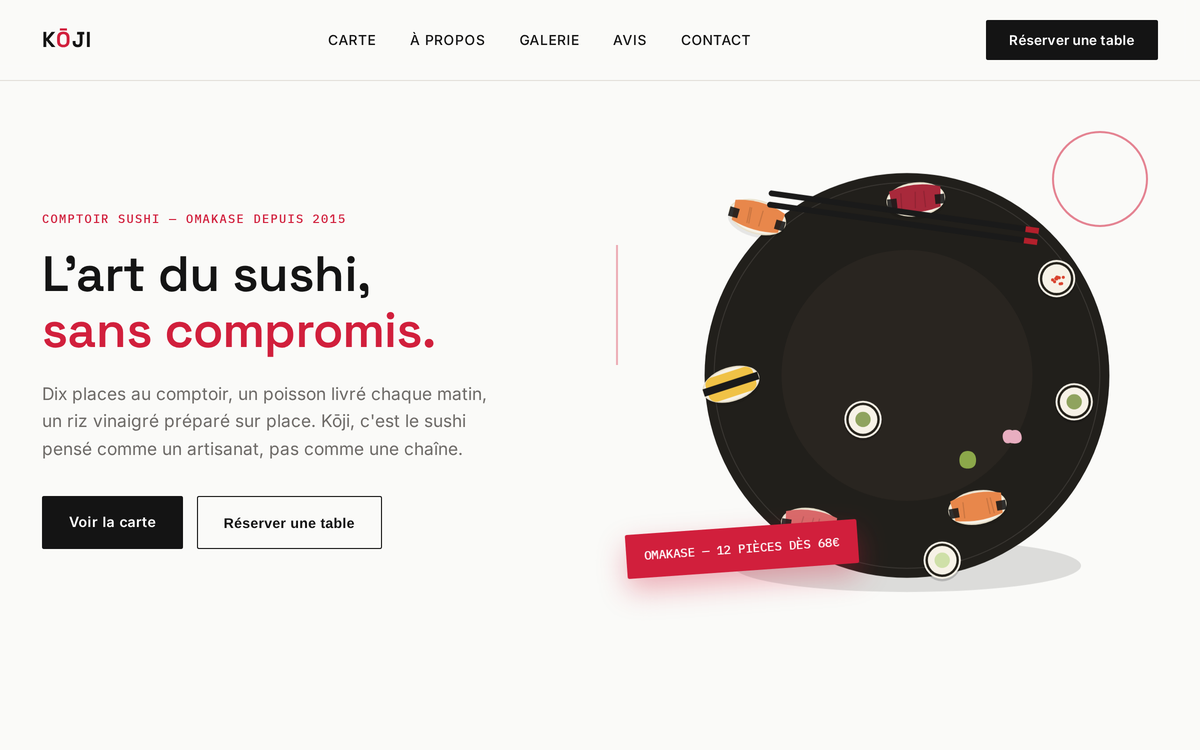
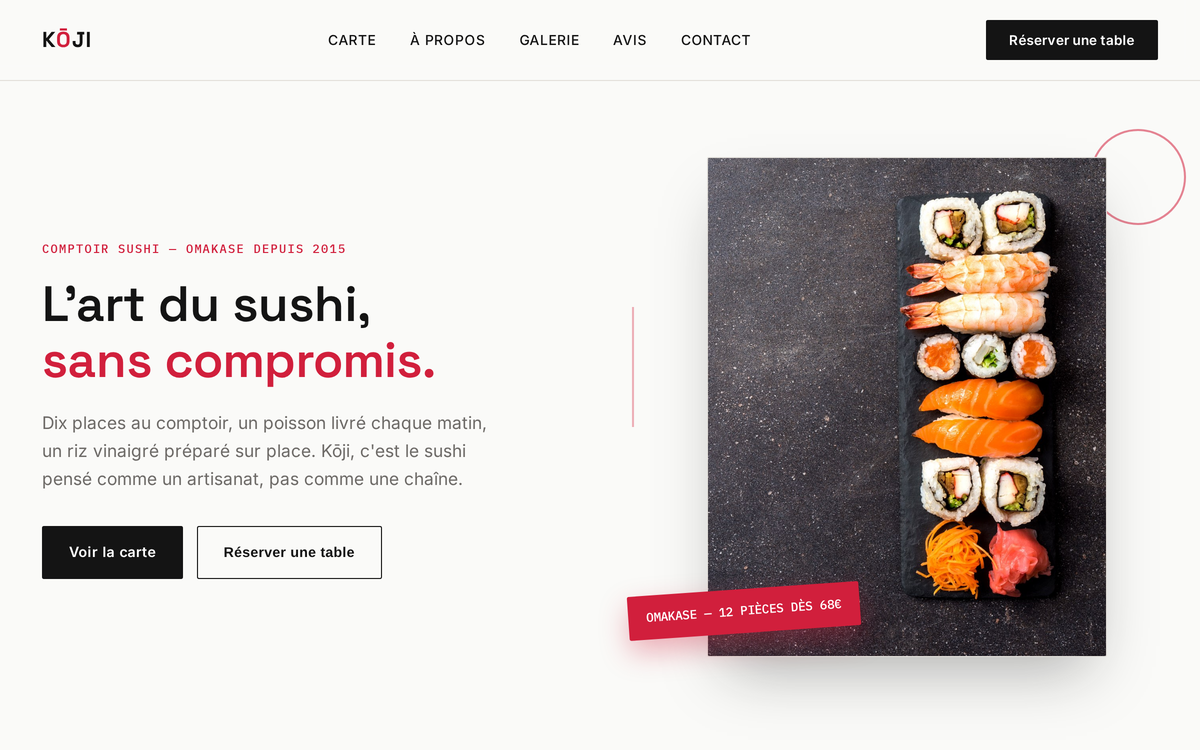
Refonte photo Kōji avec Adobe Stock

Changed region(s): [[0.4933, 0.1533, 0.9558, 0.92], [0.0308, 0.276, 0.4008, 0.7973]]

diff --git a/exemple-koji.html b/exemple-koji.html
@@ -93,20 +93,22 @@
   .lead{font-size:1.08rem; color:var(--muted); max-width:460px; margin-bottom:34px;}
   .hero-actions{display:flex; gap:14px; flex-wrap:wrap;}
   .hero-visual{position:relative; display:flex; justify-content:center; align-items:center;}
-  .sushi-wrap{position:relative; width:100%; max-width:440px; animation:floaty 5s ease-in-out infinite;}
-  .sushi-wrap svg{width:100%; height:auto; display:block;}
-  @keyframes floaty{0%,100%{transform:translateY(0);} 50%{transform:translateY(-14px);}}
+  .photo-frame{position:relative; width:100%; max-width:400px;}
+  .photo-frame img{
+    width:100%; height:auto; display:block; border-radius:var(--radius); border:1px solid var(--line);
+    box-shadow:0 30px 60px -20px rgba(20,20,20,.35);
+  }
   .price-tag-float{
-    position:absolute; bottom:6%; left:-6%; background:var(--red); color:#fff; padding:12px 18px;
+    position:absolute; bottom:24px; left:-28px; background:var(--red); color:#fff; padding:12px 18px;
     border-radius:var(--radius); font-family:'IBM Plex Mono',monospace; font-size:.78rem; letter-spacing:.02em;
     box-shadow:0 12px 28px rgba(209,31,60,.35); transform:rotate(-4deg);
   }
   .deco-ring{
-    position:absolute; top:-6%; right:2%; width:96px; height:96px; border:2px solid var(--red);
-    border-radius:50%; opacity:.55;
+    position:absolute; top:-28px; right:-28px; width:96px; height:96px; border:2px solid var(--red);
+    border-radius:50%; opacity:.55; z-index:-1;
   }
   .deco-line{
-    position:absolute; left:-8%; top:20%; width:2px; height:120px; background:var(--red); opacity:.35;
+    position:absolute; left:-24px; top:30%; width:2px; height:120px; background:var(--red); opacity:.35;
   }
 
   /* highlights */
@@ -134,10 +136,8 @@
 
   /* about */
   .about-grid{display:grid; grid-template-columns:.85fr 1.15fr; gap:64px; align-items:center;}
-  .about-visual{
-    background:var(--ink); border-radius:var(--radius); padding:34px; display:flex;
-    justify-content:center; align-items:center;
-  }
+  .about-visual{border-radius:var(--radius); overflow:hidden; border:1px solid var(--line);}
+  .about-visual img{width:100%; display:block; aspect-ratio:1/1; object-fit:cover;}
   .about-text p{color:var(--muted); margin-bottom:16px; max-width:520px;}
   .stats-row{display:flex; gap:40px; margin-top:32px; flex-wrap:wrap;}
   .stat .num{font-family:'Space Grotesk',sans-serif; font-size:2.1rem; font-weight:700; color:var(--red);}
@@ -165,17 +165,22 @@
   /* gallery */
   .gallery-grid{display:grid; grid-template-columns:repeat(3,1fr); gap:2px;}
   .gallery-tile{
-    aspect-ratio:4/3; display:flex; flex-direction:column; align-items:center; justify-content:center;
-    gap:14px; color:#fff; position:relative;
+    aspect-ratio:4/3; display:flex; align-items:flex-end; justify-content:flex-start;
+    color:#fff; position:relative; overflow:hidden;
   }
-  .gallery-tile span{font-family:'IBM Plex Mono',monospace; font-size:.8rem; letter-spacing:.04em; text-transform:uppercase;}
-  .g-icon{width:38px; height:38px; stroke:#fff; fill:none; stroke-width:1.4; opacity:.92;}
-  .g1{background:linear-gradient(135deg,#141414,#2B2B2B);}
-  .g2{background:linear-gradient(135deg,#93122A,#D11F3C);}
-  .g3{background:linear-gradient(135deg,#2B2B2B,#141414);}
-  .g4{background:linear-gradient(135deg,#D11F3C,#93122A);}
-  .g5{background:linear-gradient(135deg,#1A1A1A,#3A3733);}
-  .g6{background:linear-gradient(135deg,#3A3733,#141414);}
+  .gallery-tile img{
+    position:absolute; inset:0; width:100%; height:100%; object-fit:cover;
+    transition:transform .5s ease;
+  }
+  .gallery-tile:hover img{transform:scale(1.05);}
+  .gallery-tile::after{
+    content:""; position:absolute; inset:0;
+    background:linear-gradient(to top, rgba(10,10,10,.72) 0%, rgba(10,10,10,0) 55%);
+  }
+  .gallery-tile span{
+    position:relative; z-index:1; padding:16px;
+    font-family:'IBM Plex Mono',monospace; font-size:.8rem; letter-spacing:.04em; text-transform:uppercase;
+  }
 
   /* testimonials */
   .testi-grid{display:grid; grid-template-columns:repeat(3,1fr); gap:2px; background:var(--line);}
@@ -230,9 +235,10 @@
     .testi-grid{grid-template-columns:1fr;}
     section{padding:72px 0;}
     .hero h1{font-size:2.3rem;}
-    .hero-visual{overflow:hidden; padding:0 6px;}
-    .price-tag-float{left:6%; bottom:2%; font-size:.68rem; padding:9px 14px;}
-    .deco-ring{width:60px; height:60px; top:-2%; right:4%;}
+    .hero-visual{padding:0 6px;}
+    .photo-frame{max-width:320px; margin:0 auto;}
+    .price-tag-float{left:0; bottom:14px; font-size:.62rem; padding:8px 12px;}
+    .deco-ring{width:56px; height:56px; top:-16px; right:-16px;}
     .deco-line{display:none;}
   }
   @media(max-width:520px){
@@ -291,25 +297,8 @@
     <div class="hero-visual reveal in">
       <div class="deco-ring"></div>
       <div class="deco-line"></div>
-      <div class="sushi-wrap">
-        <svg viewBox="0 0 460 460" width="460" height="460" xmlns="http://www.w3.org/2000/svg">
-<ellipse cx="230.0" cy="428.904" rx="181.976" ry="27.508" fill="#000" opacity="0.12"/>
-<circle cx="230.0" cy="230.0" r="211.6" fill="#211F1B"/>
-<circle cx="230.0" cy="230.0" r="201.6" fill="none" stroke="#3A3733" stroke-width="1"/>
-<circle cx="230.0" cy="230.0" r="131.192" fill="#292520"/>
-<g transform="translate(73.6 64.4) rotate(16)"><ellipse cx="0" cy="6" rx="30" ry="15" fill="#000" opacity="0.08"/><ellipse cx="0" cy="0" rx="30" ry="17" fill="#F7F2E7" stroke="#E9E1CC" stroke-width="1.5"/><path d="M-27,-11 Q0,-20 27,-11 L25,10 Q0,17 -25,10 Z" fill="#E8874B"/><line x1="-10.1" y1="-8" x2="-8.9" y2="9" stroke="#00000022" stroke-width="1.2"/><line x1="4.0" y1="-8" x2="3.9" y2="9" stroke="#00000022" stroke-width="1.2"/><line x1="-8.5" y1="-8" x2="-6.8" y2="9" stroke="#00000022" stroke-width="1.2"/><rect x="-30" y="-3" width="10" height="10" fill="#1A1A1A" opacity="0.9"/><rect x="20" y="-3" width="10" height="10" fill="#1A1A1A" opacity="0.9"/></g>
-<g transform="translate(239.2 46.0) rotate(-6)"><ellipse cx="0" cy="6" rx="30" ry="15" fill="#000" opacity="0.08"/><ellipse cx="0" cy="0" rx="30" ry="17" fill="#F7F2E7" stroke="#E9E1CC" stroke-width="1.5"/><path d="M-27,-11 Q0,-20 27,-11 L25,10 Q0,17 -25,10 Z" fill="#A8293B"/><line x1="9.2" y1="-8" x2="9.3" y2="9" stroke="#00000022" stroke-width="1.2"/><line x1="0.2" y1="-8" x2="-1.4" y2="9" stroke="#00000022" stroke-width="1.2"/><line x1="-14.9" y1="-8" x2="-15.7" y2="9" stroke="#00000022" stroke-width="1.2"/><rect x="-30" y="-3" width="10" height="10" fill="#1A1A1A" opacity="0.9"/><rect x="20" y="-3" width="10" height="10" fill="#1A1A1A" opacity="0.9"/></g>
-<g transform="translate(46.0 239.2) rotate(-18)"><ellipse cx="0" cy="6" rx="30" ry="15" fill="#000" opacity="0.08"/><ellipse cx="0" cy="0" rx="30" ry="17" fill="#F7F2E7" stroke="#E9E1CC" stroke-width="1.5"/><rect x="-26" y="-13" width="52" height="26" rx="8" fill="#F0C246"/><rect x="-30" y="-4" width="60" height="8" fill="#1A1A1A"/></g>
-<g transform="translate(128.8 386.4) rotate(8)"><ellipse cx="0" cy="6" rx="30" ry="15" fill="#000" opacity="0.08"/><ellipse cx="0" cy="0" rx="30" ry="17" fill="#F7F2E7" stroke="#E9E1CC" stroke-width="1.5"/><path d="M-27,-11 Q0,-20 27,-11 L25,10 Q0,17 -25,10 Z" fill="#D96B6B"/><line x1="2.6" y1="-8" x2="-0.0" y2="9" stroke="#00000022" stroke-width="1.2"/><line x1="8.8" y1="-8" x2="7.2" y2="9" stroke="#00000022" stroke-width="1.2"/><line x1="-8.0" y1="-8" x2="-10.8" y2="9" stroke="#00000022" stroke-width="1.2"/><rect x="-30" y="-3" width="10" height="10" fill="#1A1A1A" opacity="0.9"/><rect x="20" y="-3" width="10" height="10" fill="#1A1A1A" opacity="0.9"/></g>
-<g transform="translate(303.6 368.0) rotate(-10)"><ellipse cx="0" cy="6" rx="30" ry="15" fill="#000" opacity="0.08"/><ellipse cx="0" cy="0" rx="30" ry="17" fill="#F7F2E7" stroke="#E9E1CC" stroke-width="1.5"/><path d="M-27,-11 Q0,-20 27,-11 L25,10 Q0,17 -25,10 Z" fill="#E8874B"/><line x1="14.9" y1="-8" x2="16.4" y2="9" stroke="#00000022" stroke-width="1.2"/><line x1="11.3" y1="-8" x2="11.9" y2="9" stroke="#00000022" stroke-width="1.2"/><line x1="-14.0" y1="-8" x2="-15.0" y2="9" stroke="#00000022" stroke-width="1.2"/><rect x="-30" y="-3" width="10" height="10" fill="#1A1A1A" opacity="0.9"/><rect x="20" y="-3" width="10" height="10" fill="#1A1A1A" opacity="0.9"/></g>
-<g transform="translate(404.8 257.6)"><circle cx="0" cy="2" r="20" fill="#000" opacity="0.18"/><circle cx="0" cy="0" r="19.5" fill="#F7F2E7"/><circle cx="0" cy="0" r="17.5" fill="#232019"/><circle cx="0" cy="0" r="15" fill="#F7F2E7"/><circle cx="0" cy="0" r="8" fill="#8FA35E"/></g>
-<g transform="translate(386.4 128.8)"><circle cx="0" cy="2" r="20" fill="#000" opacity="0.18"/><circle cx="0" cy="0" r="19.5" fill="#F7F2E7"/><circle cx="0" cy="0" r="17.5" fill="#232019"/><circle cx="0" cy="0" r="15" fill="#F7F2E7"/><circle cx="-0.9" cy="0.0" r="1.6" fill="#D9432E"/><circle cx="2.8" cy="-0.9" r="1.6" fill="#D9432E"/><circle cx="3.7" cy="5.4" r="1.6" fill="#D9432E"/><circle cx="5.3" cy="5.2" r="1.6" fill="#D9432E"/><circle cx="-4.2" cy="1.3" r="1.6" fill="#D9432E"/><circle cx="-2.1" cy="3.2" r="1.6" fill="#D9432E"/><circle cx="0.1" cy="0.3" r="1.6" fill="#D9432E"/><circle cx="1.3" cy="-1.4" r="1.6" fill="#D9432E"/><circle cx="0.3" cy="-1.6" r="1.6" fill="#D9432E"/><circle cx="7.0" cy="-1.4" r="1.6" fill="#D9432E"/></g>
-<g transform="translate(266.8 423.2)"><circle cx="0" cy="2" r="20" fill="#000" opacity="0.18"/><circle cx="0" cy="0" r="19.5" fill="#F7F2E7"/><circle cx="0" cy="0" r="17.5" fill="#232019"/><circle cx="0" cy="0" r="15" fill="#F7F2E7"/><circle cx="0" cy="0" r="8" fill="#CFE0A8"/></g>
-<g transform="translate(184.0 276.0)"><circle cx="0" cy="2" r="20" fill="#000" opacity="0.18"/><circle cx="0" cy="0" r="19.5" fill="#F7F2E7"/><circle cx="0" cy="0" r="17.5" fill="#232019"/><circle cx="0" cy="0" r="15" fill="#F7F2E7"/><circle cx="0" cy="0" r="8" fill="#8FA35E"/></g>
-<g transform="translate(293.5 318.9)"><path d="M0,-10 C8,-10 10,-2 8,4 C6,10 -6,10 -8,4 C-10,-2 -8,-10 0,-10Z" fill="#8CA84A"/></g>
-<g transform="translate(340.0 293.5)"><path d="M-10,0 C-10,-6 -4,-8 0,-6 C6,-8 10,-4 10,2 C10,7 4,9 -2,7 C-8,9 -10,4 -10,0Z" fill="#E8AEC0"/></g>
-<g transform="translate(225.8 65.0) rotate(8)"><rect x="-142.6" y="-9" width="285.2" height="6" rx="3" fill="#1A1A1A"/><rect x="128.6" y="-9" width="14" height="6" fill="#B3202C"/><rect x="-142.6" y="3" width="285.2" height="6" rx="3" fill="#1A1A1A"/><rect x="128.6" y="3" width="14" height="6" fill="#B3202C"/></g>
-</svg>
+      <div class="photo-frame">
+        <img src="koji-hero.jpg" alt="Plateau de nigiri et maki préparé au comptoir Kōji" width="1000" height="1250" loading="eager">
       </div>
       <div class="price-tag-float">OMAKASE — 12 PIÈCES DÈS 68€</div>
     </div>
@@ -328,17 +317,7 @@
 <section id="about">
   <div class="wrap about-grid">
     <div class="about-visual reveal">
-      <svg viewBox="0 0 180 180" width="180" height="180" xmlns="http://www.w3.org/2000/svg">
-<ellipse cx="90.0" cy="167.832" rx="71.208" ry="10.764" fill="#000" opacity="0.12"/>
-<circle cx="90.0" cy="90.0" r="82.8" fill="#211F1B"/>
-<circle cx="90.0" cy="90.0" r="72.8" fill="none" stroke="#3A3733" stroke-width="1"/>
-<circle cx="90.0" cy="90.0" r="51.336" fill="#292520"/>
-<g transform="translate(28.8 25.2) rotate(16)"><ellipse cx="0" cy="6" rx="30" ry="15" fill="#000" opacity="0.08"/><ellipse cx="0" cy="0" rx="30" ry="17" fill="#F7F2E7" stroke="#E9E1CC" stroke-width="1.5"/><path d="M-27,-11 Q0,-20 27,-11 L25,10 Q0,17 -25,10 Z" fill="#E8874B"/><rect x="-30" y="-3" width="10" height="10" fill="#1A1A1A" opacity="0.9"/><rect x="20" y="-3" width="10" height="10" fill="#1A1A1A" opacity="0.9"/></g>
-<g transform="translate(93.6 18.0) rotate(-6)"><ellipse cx="0" cy="6" rx="30" ry="15" fill="#000" opacity="0.08"/><ellipse cx="0" cy="0" rx="30" ry="17" fill="#F7F2E7" stroke="#E9E1CC" stroke-width="1.5"/><path d="M-27,-11 Q0,-20 27,-11 L25,10 Q0,17 -25,10 Z" fill="#A8293B"/><rect x="-30" y="-3" width="10" height="10" fill="#1A1A1A" opacity="0.9"/><rect x="20" y="-3" width="10" height="10" fill="#1A1A1A" opacity="0.9"/></g>
-<g transform="translate(18.0 93.6) rotate(-18)"><ellipse cx="0" cy="6" rx="30" ry="15" fill="#000" opacity="0.08"/><ellipse cx="0" cy="0" rx="30" ry="17" fill="#F7F2E7" stroke="#E9E1CC" stroke-width="1.5"/><rect x="-26" y="-13" width="52" height="26" rx="8" fill="#F0C246"/><rect x="-30" y="-4" width="60" height="8" fill="#1A1A1A"/></g>
-<g transform="translate(158.4 100.8)"><circle cx="0" cy="2" r="20" fill="#000" opacity="0.18"/><circle cx="0" cy="0" r="19.5" fill="#F7F2E7"/><circle cx="0" cy="0" r="17.5" fill="#232019"/><circle cx="0" cy="0" r="15" fill="#F7F2E7"/><circle cx="0" cy="0" r="8" fill="#8FA35E"/></g>
-<g transform="translate(72.0 108.0)"><circle cx="0" cy="2" r="20" fill="#000" opacity="0.18"/><circle cx="0" cy="0" r="19.5" fill="#F7F2E7"/><circle cx="0" cy="0" r="17.5" fill="#232019"/><circle cx="0" cy="0" r="15" fill="#F7F2E7"/><circle cx="0" cy="0" r="8" fill="#CFE0A8"/></g>
-</svg>
+      <img src="koji-about.jpg" alt="Le chef Kōji façonnant un nigiri à la main" width="800" height="800" loading="lazy">
     </div>
     <div class="about-text reveal">
       <span class="tag">Notre histoire</span>
@@ -417,12 +396,12 @@
       <h2>Le comptoir, en images</h2>
     </div>
     <div class="gallery-grid reveal-stagger reveal">
-      <div class="gallery-tile g1" style="--i:0"><svg class="g-icon" viewBox="0 0 24 24"><rect x="3" y="14" width="18" height="6" rx="1"/><line x1="3" y1="14" x2="12" y2="5"/><line x1="21" y1="14" x2="12" y2="5"/></svg><span>Le comptoir</span></div>
-      <div class="gallery-tile g2" style="--i:1"><svg class="g-icon" viewBox="0 0 24 24"><line x1="4" y1="20" x2="16" y2="8"/><line x1="14" y1="6" x2="18" y2="10"/><line x1="4" y1="20" x2="6" y2="18"/></svg><span>La découpe</span></div>
-      <div class="gallery-tile g3" style="--i:2"><svg class="g-icon" viewBox="0 0 24 24"><ellipse cx="12" cy="14" rx="8" ry="4"/><path d="M5 14 Q12 6 19 14"/></svg><span>Le riz vinaigré</span></div>
-      <div class="gallery-tile g4" style="--i:3"><svg class="g-icon" viewBox="0 0 24 24"><rect x="4" y="4" width="16" height="16" rx="1"/><line x1="4" y1="12" x2="20" y2="12"/></svg><span>La cuisine ouverte</span></div>
-      <div class="gallery-tile g5" style="--i:4"><svg class="g-icon" viewBox="0 0 24 24"><circle cx="12" cy="9" r="4"/><path d="M6 21c0-4 3-6 6-6s6 2 6 6"/></svg><span>Le chef</span></div>
-      <div class="gallery-tile g6" style="--i:5"><svg class="g-icon" viewBox="0 0 24 24"><rect x="4" y="5" width="16" height="14" rx="1"/><line x1="4" y1="10" x2="20" y2="10"/><line x1="10" y1="10" x2="10" y2="19"/></svg><span>La salle</span></div>
+      <div class="gallery-tile" style="--i:0"><img src="koji-g1.jpg" alt="Le chef au comptoir Kōji" loading="lazy"><span>Le comptoir</span></div>
+      <div class="gallery-tile" style="--i:1"><img src="koji-g2.jpg" alt="Découpe du poisson au couteau" loading="lazy"><span>La découpe</span></div>
+      <div class="gallery-tile" style="--i:2"><img src="koji-g3.jpg" alt="Rouleaux de maki fraîchement coupés" loading="lazy"><span>Le riz vinaigré</span></div>
+      <div class="gallery-tile" style="--i:3"><img src="koji-g4.jpg" alt="Sélection de nigiri et maki du jour" loading="lazy"><span>La sélection du jour</span></div>
+      <div class="gallery-tile" style="--i:4"><img src="koji-g5.jpg" alt="Service d'un plateau de sushi aux baguettes" loading="lazy"><span>Le service</span></div>
+      <div class="gallery-tile" style="--i:5"><img src="koji-g6.jpg" alt="Baguettes en bois, détail du comptoir" loading="lazy"><span>Détail du jour</span></div>
     </div>
   </div>
 </section>
